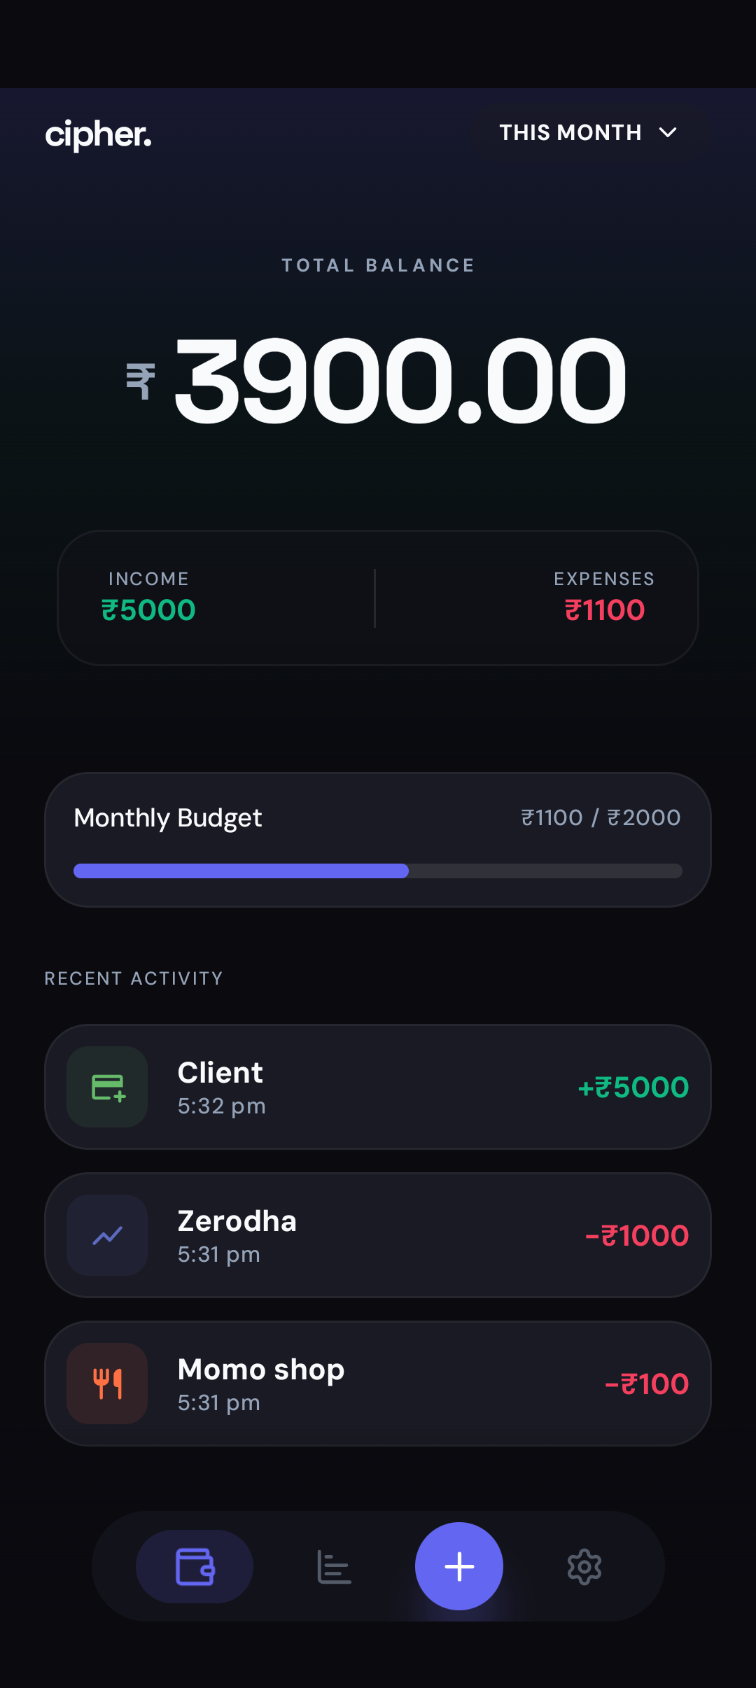
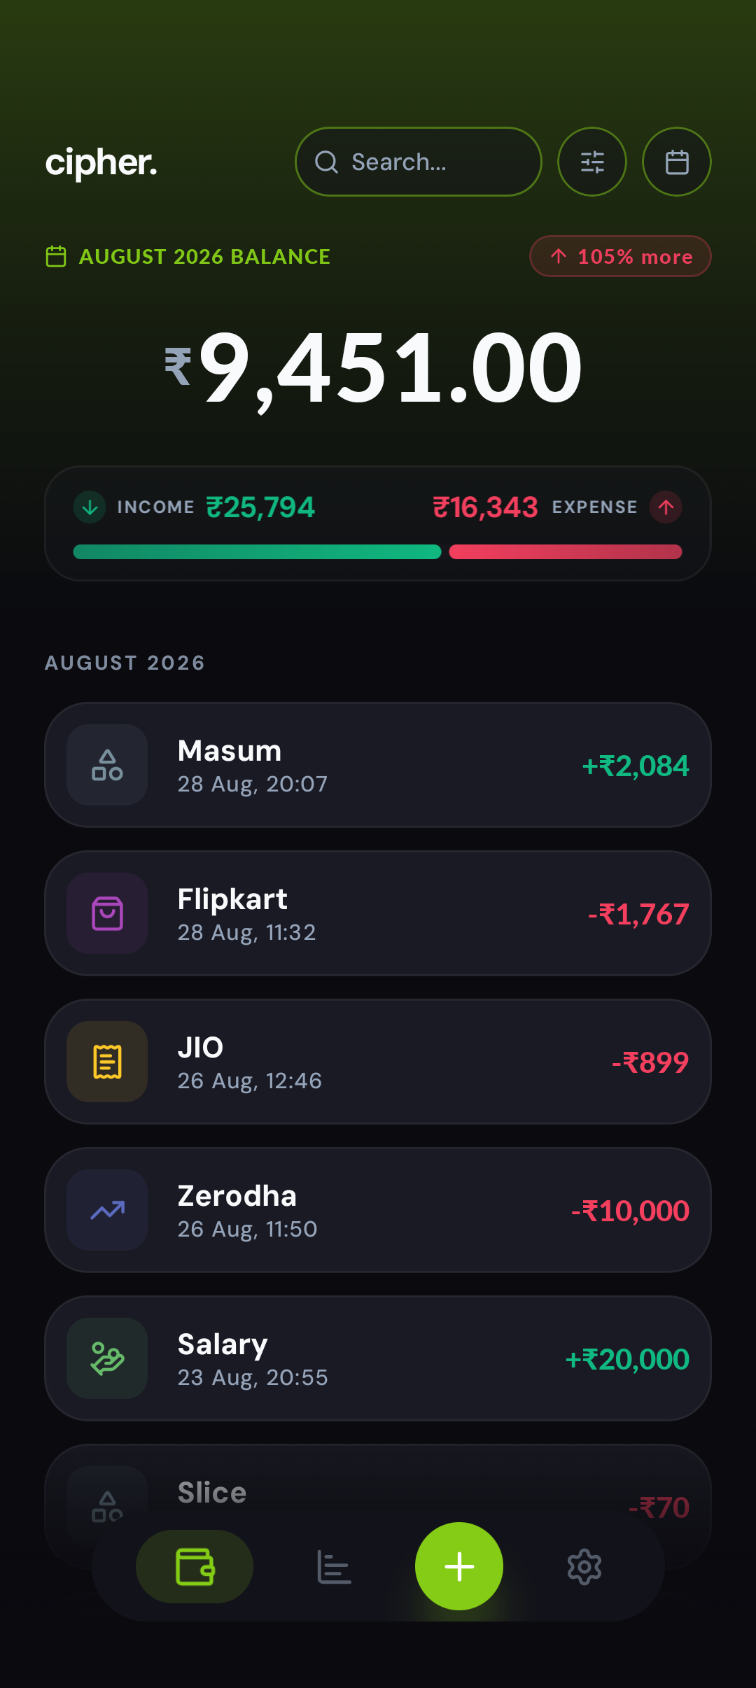
New app screenshots

diff --git a/app/src/main/java/com/masum/cipher/ui/insights/InsightsScreen.kt b/app/src/main/java/com/masum/cipher/ui/insights/InsightsScreen.kt
@@ -448,35 +448,16 @@ private fun InsightHero(state: InsightsContract.State) {
                 horizontalArrangement = Arrangement.SpaceBetween,
                 verticalAlignment = Alignment.CenterVertically
             ) {
-                Row(
-                    verticalAlignment = Alignment.CenterVertically,
-                    horizontalArrangement = Arrangement.spacedBy(8.dp)
-                ) {
-                    Box(
-                        modifier = Modifier
-                            .size(28.dp)
-                            .clip(CircleShape)
-                            .background(MaterialTheme.colorScheme.primary.copy(alpha = 0.15f)),
-                        contentAlignment = Alignment.Center
-                    ) {
-                        Icon(
-                            imageVector = LucideIcons.TrendingUp,
-                            contentDescription = null,
-                            tint = MaterialTheme.colorScheme.primary,
-                            modifier = Modifier.size(14.dp)
-                        )
-                    }
-                    Text(
-                        text = "OVERVIEW",
-                        style = Typography.labelSmall.copy(
-                            fontFamily = Manrope,
-                            fontWeight = FontWeight.Bold,
-                            fontSize = 11.sp,
-                            letterSpacing = 1.sp
-                        ),
-                        color = MaterialTheme.colorScheme.onSurfaceVariant
-                    )
-                }
+                Text(
+                    text = "OVERVIEW",
+                    style = Typography.labelSmall.copy(
+                        fontFamily = Manrope,
+                        fontWeight = FontWeight.Bold,
+                        fontSize = 11.sp,
+                        letterSpacing = 1.sp
+                    ),
+                    color = MaterialTheme.colorScheme.onSurfaceVariant
+                )
 
                 Box(
                     modifier = Modifier

diff --git a/README.md b/README.md
@@ -6,21 +6,13 @@ A local-first, privacy-focused personal finance app for Android. cipher reads yo
 
 ## Screenshots
 
-| Onboarding (Get Started) | Onboarding (Styling) | Onboarding (Permissions) | Onboarding (Tracked Apps) |
-|:------------------------:|:--------------------:|:------------------------:|:-------------------------:|
-| ![Get Started](docs/screenshots/onboarding.png) | ![Styling](docs/screenshots/onboarding-styling.png) | ![Permissions](docs/screenshots/onboarding-permission.png) | ![Tracked Apps](docs/screenshots/onboarding-tracked-apps.png) |
+| Dashboard | Financial Flow | Calendar Heatmap | Subscriptions Hub |
+|:---------:|:--------------:|:----------------:|:-----------------:|
+| ![Dashboard](docs/screenshots/dashboard.png) | ![Financial Flow](docs/screenshots/insights-spending.png) | ![Calendar Heatmap](docs/screenshots/insights-habits.png) | ![Subscriptions Hub](docs/screenshots/insights-recurring.png) |
 
-| Dashboard | Transaction Editor |
-|:---------:|:------------------:|
-| ![Dashboard](docs/screenshots/dashboard.png) | ![Transaction Editor](docs/screenshots/transaction-editor.png) |
-
-| Insights | Insights 2 | Insights 3 |
-|:--------:|:----------:|:----------:|
-| ![Insights](docs/screenshots/insights.png) | ![Insights 2](docs/screenshots/insights-2.png) | ![Insights 3](docs/screenshots/insights-3.png) |
-
-| Settings | Settings 2 |
-|:--------:|:----------:|
-| ![Settings](docs/screenshots/settings-1.png) | ![Settings 2](docs/screenshots/settings-2.png) |
+| Category Hub | Category Drilldown | Calculator Keypad | Security & Settings |
+|:------------:|:------------------:|:-----------------:|:-------------------:|
+| ![Category Hub](docs/screenshots/categories.png) | ![Category Drilldown](docs/screenshots/category-detail.png) | ![Calculator Keypad](docs/screenshots/transaction-calculator.png) | ![Security & Settings](docs/screenshots/settings.png) |
 
 ---
 
